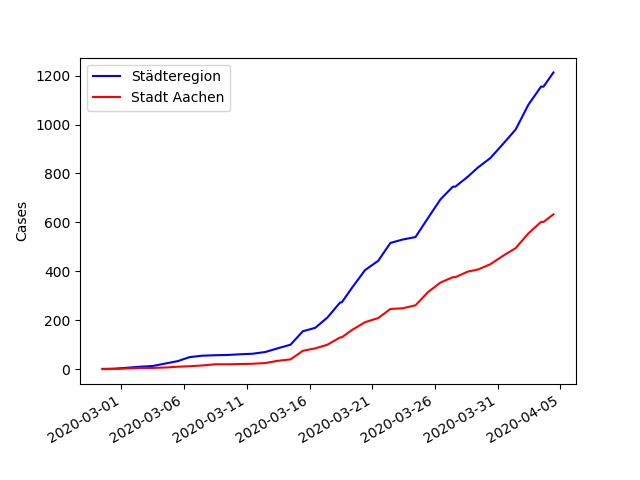
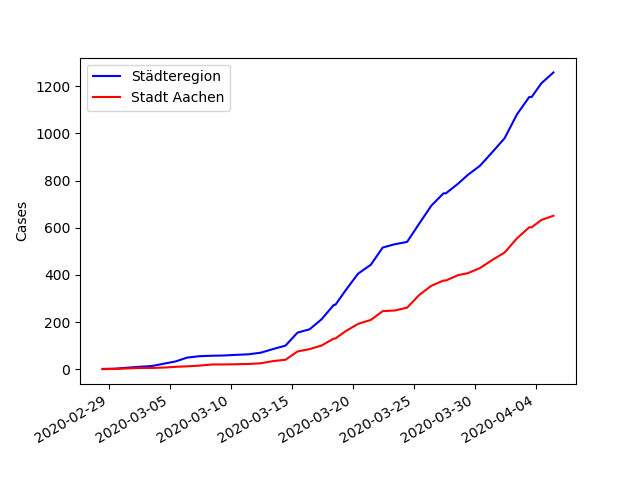
covid19 update

diff --git a/content/blog/Covid19/index.md b/content/blog/Covid19/index.md
@@ -1,6 +1,6 @@
 --- 
  title: Covid19 in Aachen (Stadt und Städteregion) 
- date: "2020-04-04T11:39:31.000Z" 
+ date: "2020-04-05T12:13:55.000Z" 
 --- 
 The city of Aachen publishes (more or less) daily updates about Covid19. It's in the form of a daily press release, so I decided to collect this data to make it more usable for further processing ([google spread sheet](https://docs.google.com/spreadsheets/d/1Th4GSgmTpX4GtcebVDzIfRuCOu2cSOc2WJCORHcCw-Y)).
 
